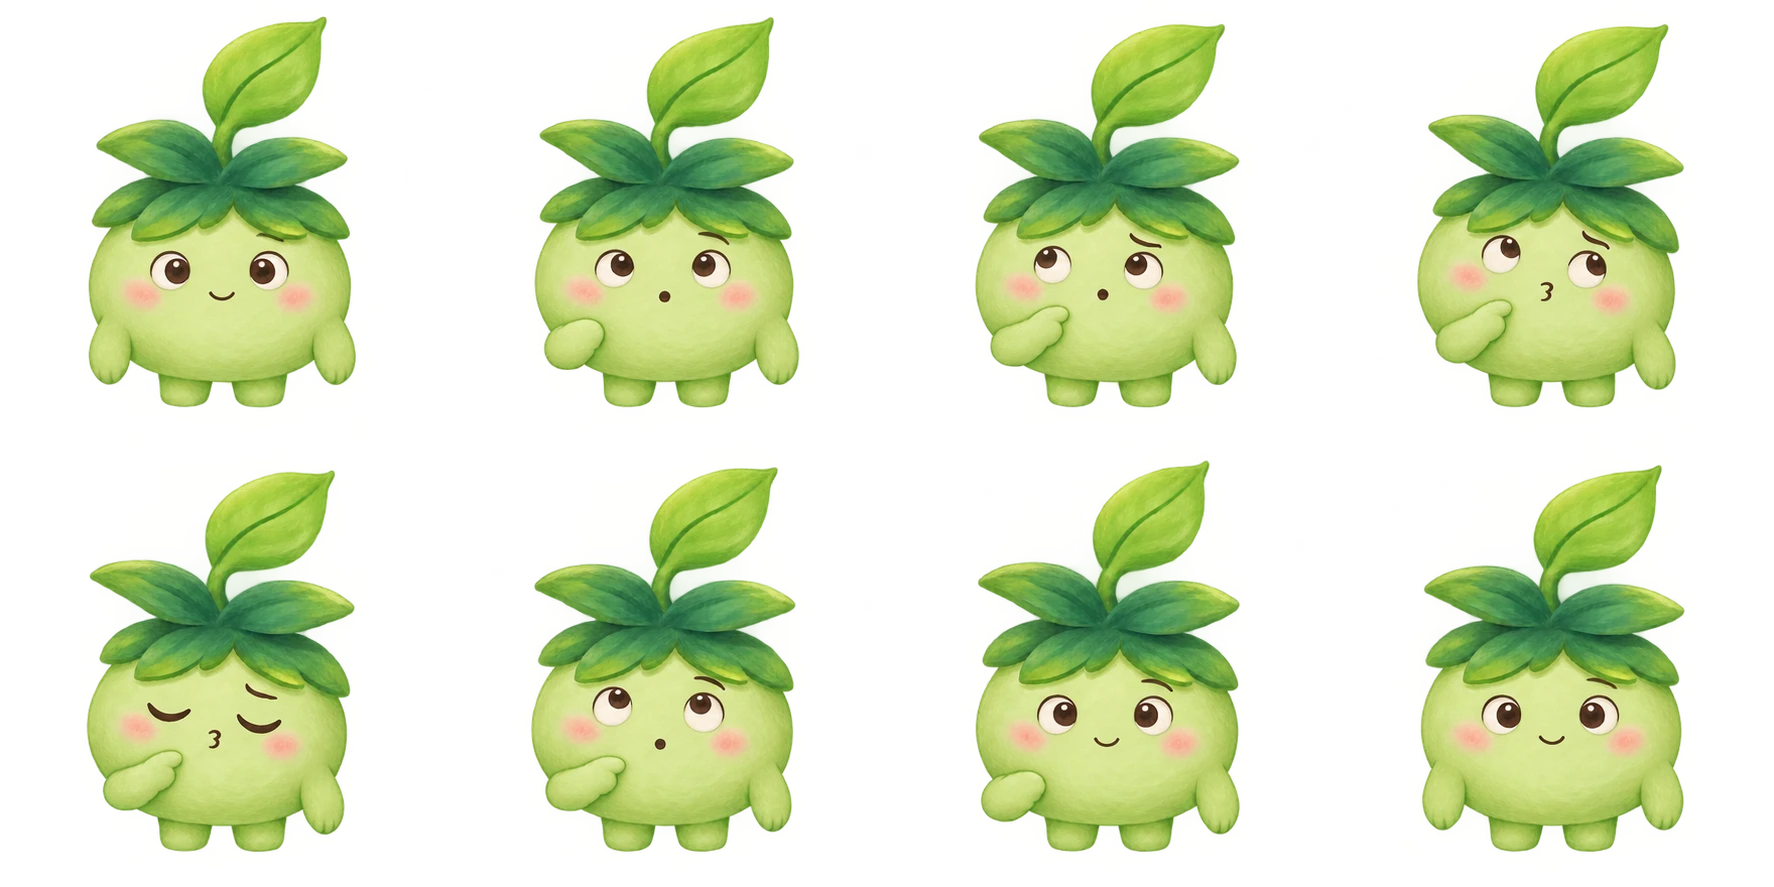
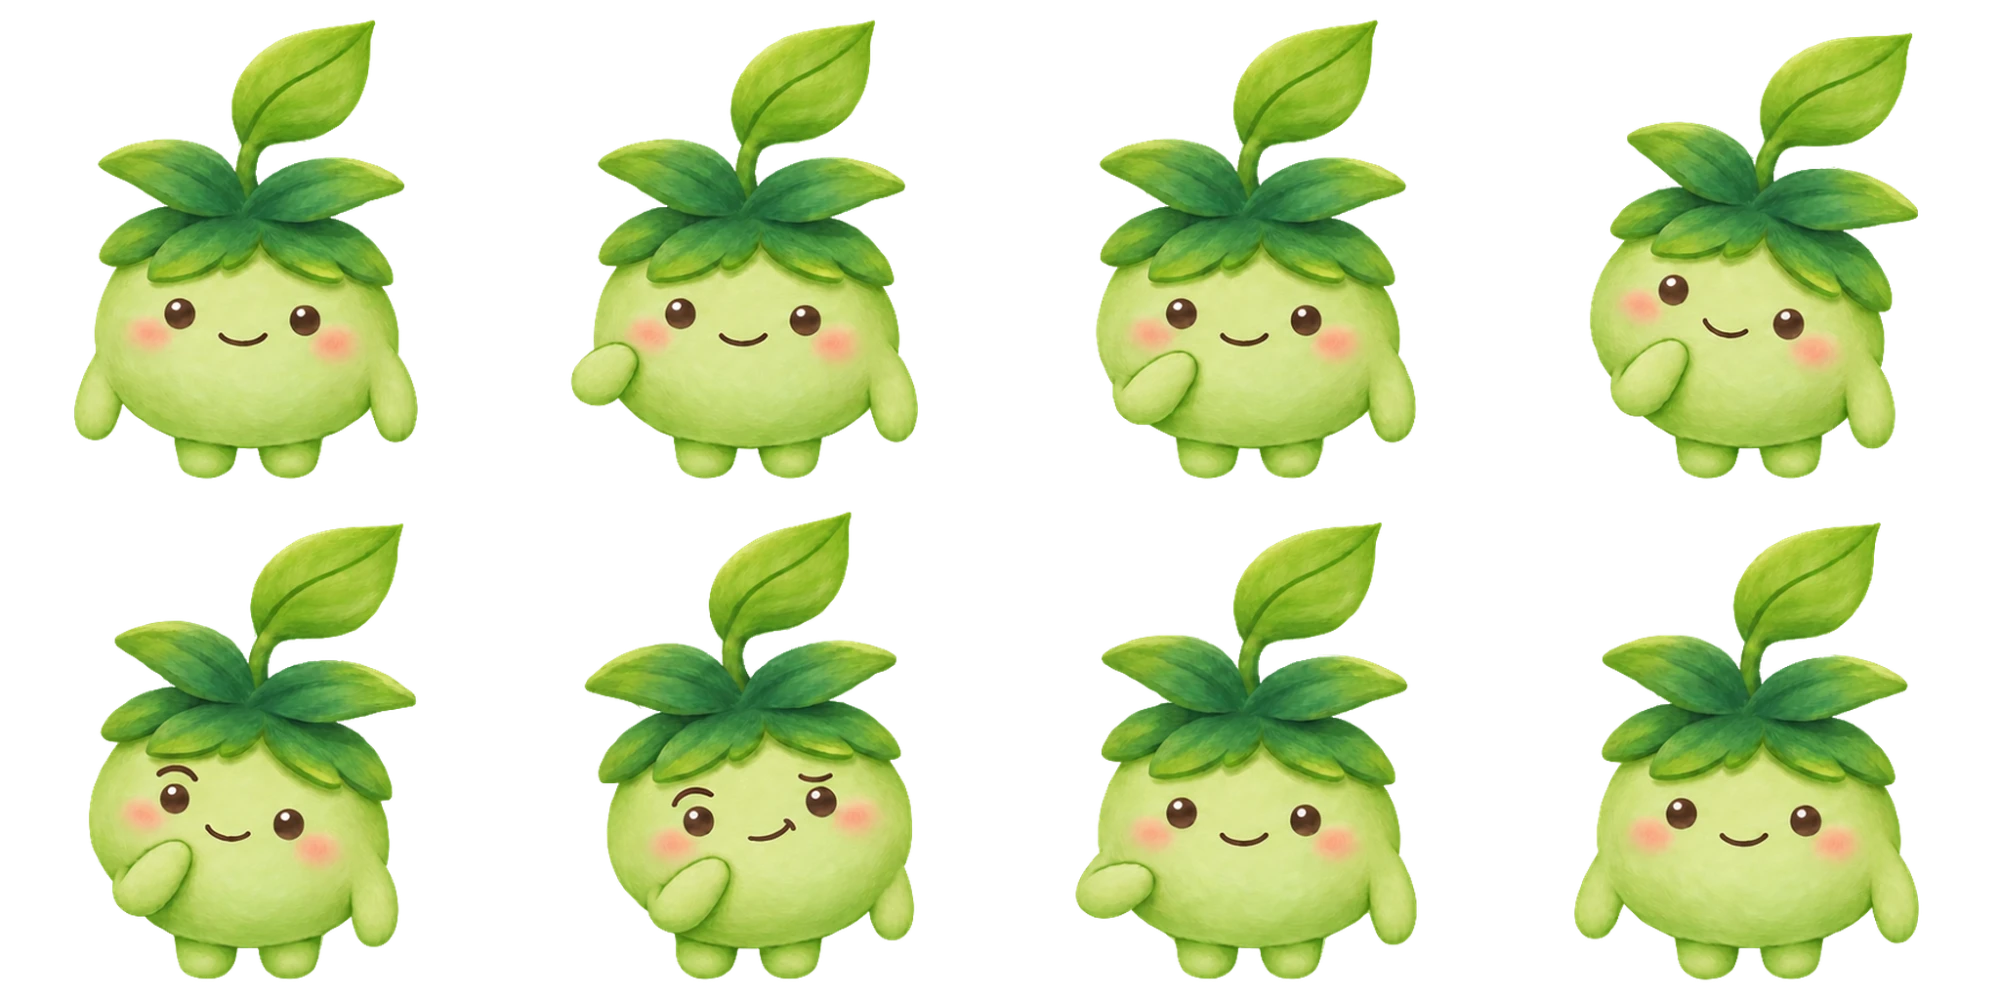
One: folhas novas de dormindo (acena, boceja, deita, dorme) e pensando (V13.7)
Claude-Session: https://claude.ai/code/session_016Xcfx6MKYyFzobS3rnLNKL

diff --git a/ferramentas/montar_one.py b/ferramentas/montar_one.py
@@ -33,10 +33,10 @@ REACOES = {
     'bravo':    ('bravo', [(1, 500), (2, 300), (3, 300), (4, 400), (5, 300), (6, 250), (7, 400), (8, 2200)]),
     # o mais grave (pedido esperando aprovação há dias): fica vermelho de raiva e esfria de novo
     'furioso':  ('furioso', [(1, 400), (2, 250), (3, 250), (4, 300), (5, 350), (6, 250), (5, 350), (7, 400), (8, 1800)]),
-    # pensando: mão no queixo, olha para cima, faz "hmm"
-    'pensando': ('pensando', [(1, 600), (2, 300), (3, 300), (4, 500), (5, 400), (6, 300), (3, 400), (4, 900)]),
-    # ideia / sugestão: pensa e chega na resposta, sorrindo
-    'ideia':    ('pensando', [(3, 300), (4, 300), (6, 250), (7, 300), (8, 3500)]),
+    # pensando: leva a mão ao queixo, levanta a sobrancelha com um sorrisinho e volta
+    'pensando': ('pensando', [(1, 700), (2, 220), (3, 220), (4, 500), (5, 600), (6, 900), (5, 500), (4, 400), (7, 300), (8, 1200)]),
+    # ideia / sugestão: pensa e chega na resposta, com o sorrisinho
+    'ideia':    ('pensando', [(3, 250), (4, 350), (5, 400), (6, 700), (7, 250), (8, 3000)]),
     # algo deu errado / atrasado: triste, com a lágrima
     'ops':      ('triste', [(1, 600), (2, 400), (3, 400), (4, 500), (5, 600), (6, 500), (7, 400), (8, 2500)]),
     # indo buscar / carregando: corre sem parar
@@ -79,7 +79,7 @@ for reacao, (folha, sequencia) in REACOES.items():
     salvar(reacao, [q[n - 1] for n, _ in sequencia], [ms for _, ms in sequencia])
 
 
-def zzz(base: Image.Image, passo: int) -> Image.Image:
+def zzz(base: Image.Image, passo: int, x0: int = LARGURA - 78, y0: int = 150) -> Image.Image:
     """Desenha os "Zzz" subindo em diagonal ao lado da cabeça, crescendo e sumindo (passo 0 a 7)."""
     im = base.copy()
     for fase in (0, 3, 6):  # três letras, cada uma num momento da subida
@@ -87,7 +87,7 @@ def zzz(base: Image.Image, passo: int) -> Image.Image:
         if t > 7:
             continue
         tam = 16 + t * 4
-        x, y = LARGURA - 78 + t * 7, 150 - t * 17
+        x, y = x0 + t * 7, y0 - t * 17
         alfa = int(235 * (1 - max(0, t - 4) / 4))
         camada = Image.new('RGBA', im.size, (0, 0, 0, 0))
         ImageDraw.Draw(camada).text((x, y), 'Z', font=ImageFont.truetype('/usr/share/fonts/truetype/dejavu/DejaVuSans-Bold.ttf', tam),
@@ -99,8 +99,13 @@ def zzz(base: Image.Image, passo: int) -> Image.Image:
 # Dormindo (depois do horário de descanso). Com a folha ferramentas/one/dormindo.webp, usa ela;
 # sem a folha, monta uma provisória: o quadro de olhos fechados da folha "pensando" + "Zzz" subindo.
 if (FOLHAS / 'dormindo.webp').exists():
+    # acena, boceja, senta e deita; depois fica dormindo (com os "Zzz") uns 11 segundos antes de repetir
+    # (cada quadro ocupa espaço no arquivo: 3 ciclos de "Zzz" deixam a imagem leve)
     q = quadros('dormindo')
-    salvar('dormindo', q + [q[0]], [400] * 8 + [1500])
+    dormindo = [zzz(q[6 + (p % 2)], p, x0=58, y0=165) for p in range(9)]  # deitado: os "Zzz" saem à esquerda da folha
+    seq = q[:6] + dormindo * 3
+    tempos = [700, 900, 500, 500, 600, 700] + [420] * (9 * 3)
+    salvar('dormindo', seq, tempos)
 else:
     olhos_fechados = cache.setdefault('pensando', quadros('pensando'))[4]
     salvar('dormindo', [zzz(olhos_fechados, p) for p in range(8)], [380] * 8)

diff --git a/app/versoes.php b/app/versoes.php
@@ -17,6 +17,13 @@
  */
 return [
     [
+        'versao' => '13.7', 'data' => '2026-11-16', 'titulo' => 'O One dormindo de verdade',
+        'melhoria' => [
+            'Depois do horário, o One acena, boceja, deita e dorme com os "Zzz".',
+            'O One pensativo ficou mais expressivo: mão no queixo e sobrancelha levantada com um sorrisinho.',
+        ],
+    ],
+    [
         'versao' => '13.6', 'data' => '2026-11-16', 'titulo' => 'Hora de descansar',
         'novo' => [
             'Depois das 17h45 o One dorme e avisa que é hora de descansar.',

diff --git a/public/assets/img/one/LEIA-ME.md b/public/assets/img/one/LEIA-ME.md
@@ -16,6 +16,7 @@ Cada animação termina com uma pausa, para o One não ficar se mexendo o tempo 
 | `pensando` | pensando  | Procurando uma resposta (Pergunte ao One)                    |
 | `ops`      | triste    | Algo atrasado ou que deu errado                              |
 | `correndo` | correndo  | Indo buscar: carregando as dicas, buscando contatos na web   |
+| `dormindo` | dormindo  | Depois do horário de descanso (acena, boceja, deita e dorme com "Zzz") |
 | `bravo`    | bravo     | Aviso sério: pedido parado há mais de 24h, desconto acima do limite, documento vencido |
 | `furioso`  | furioso   | O mais grave: pedido esperando aprovação há mais de 3 dias (fica vermelho) |
 
